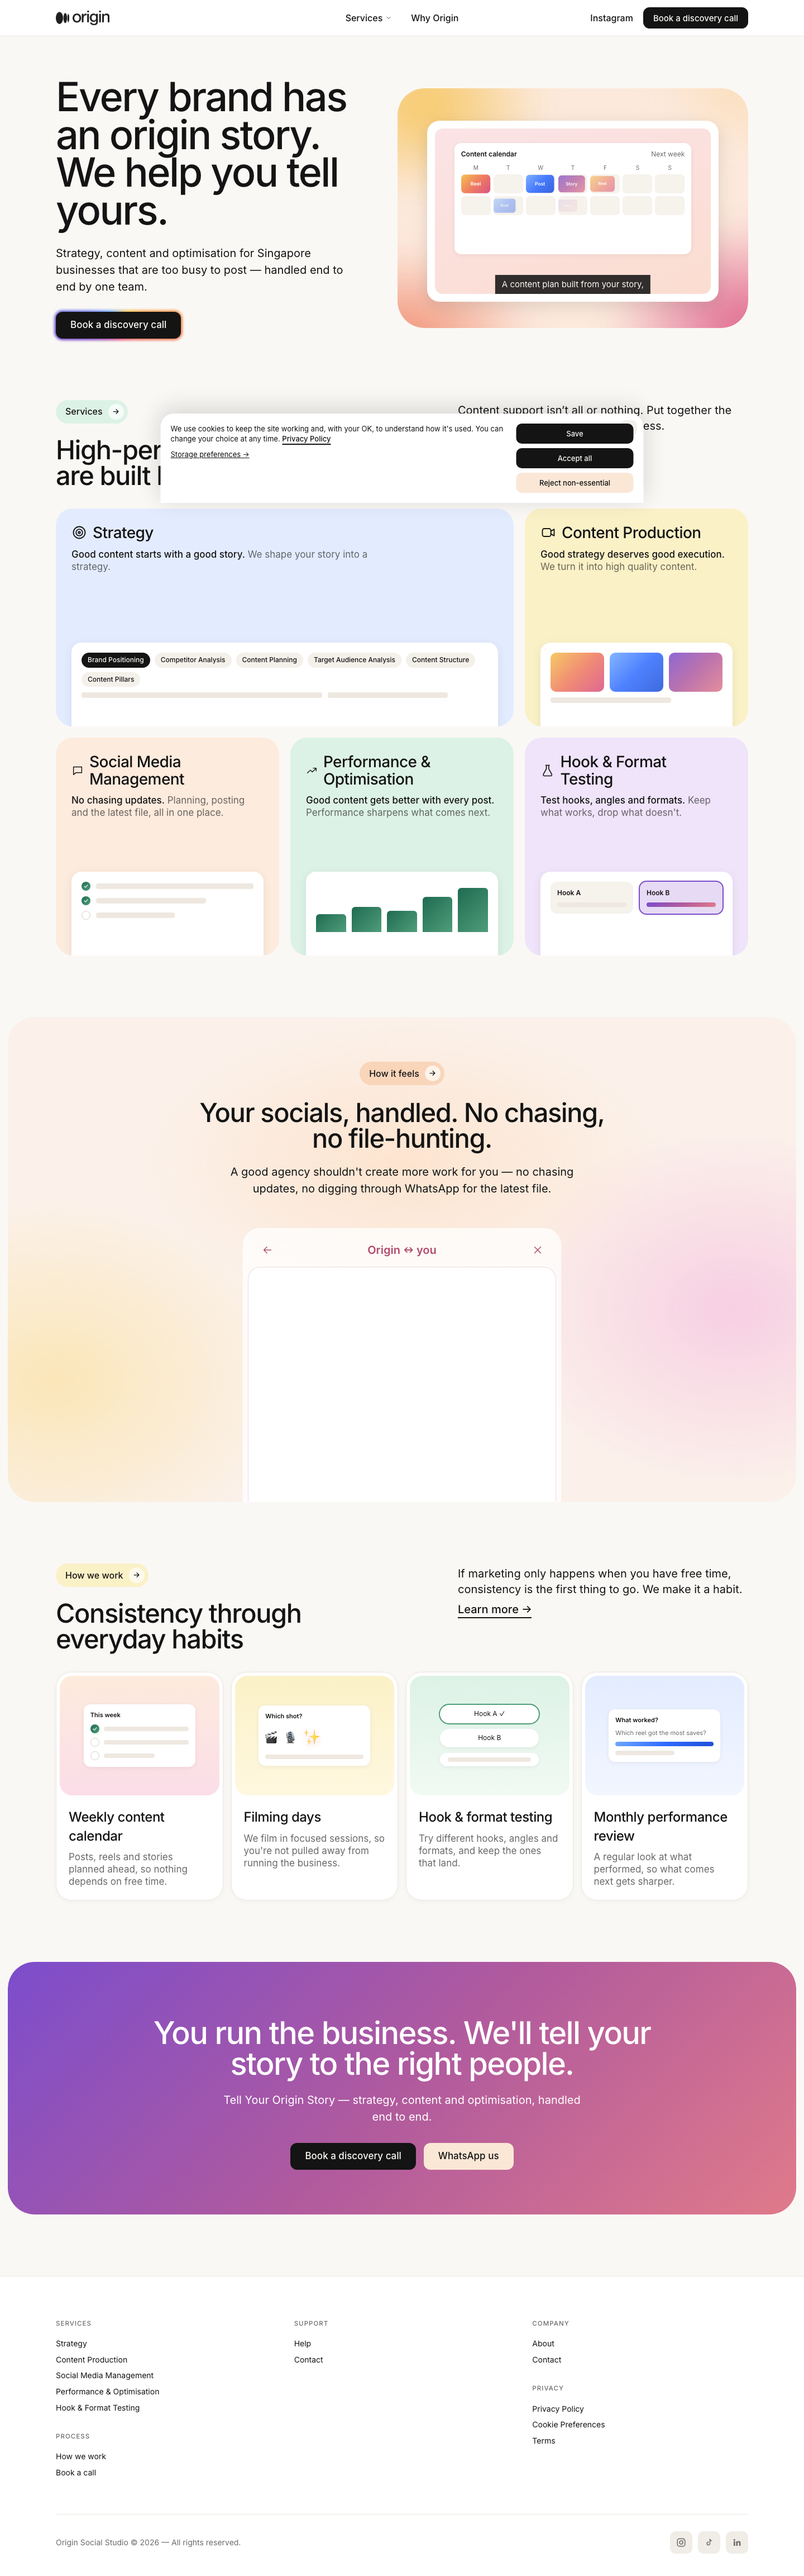
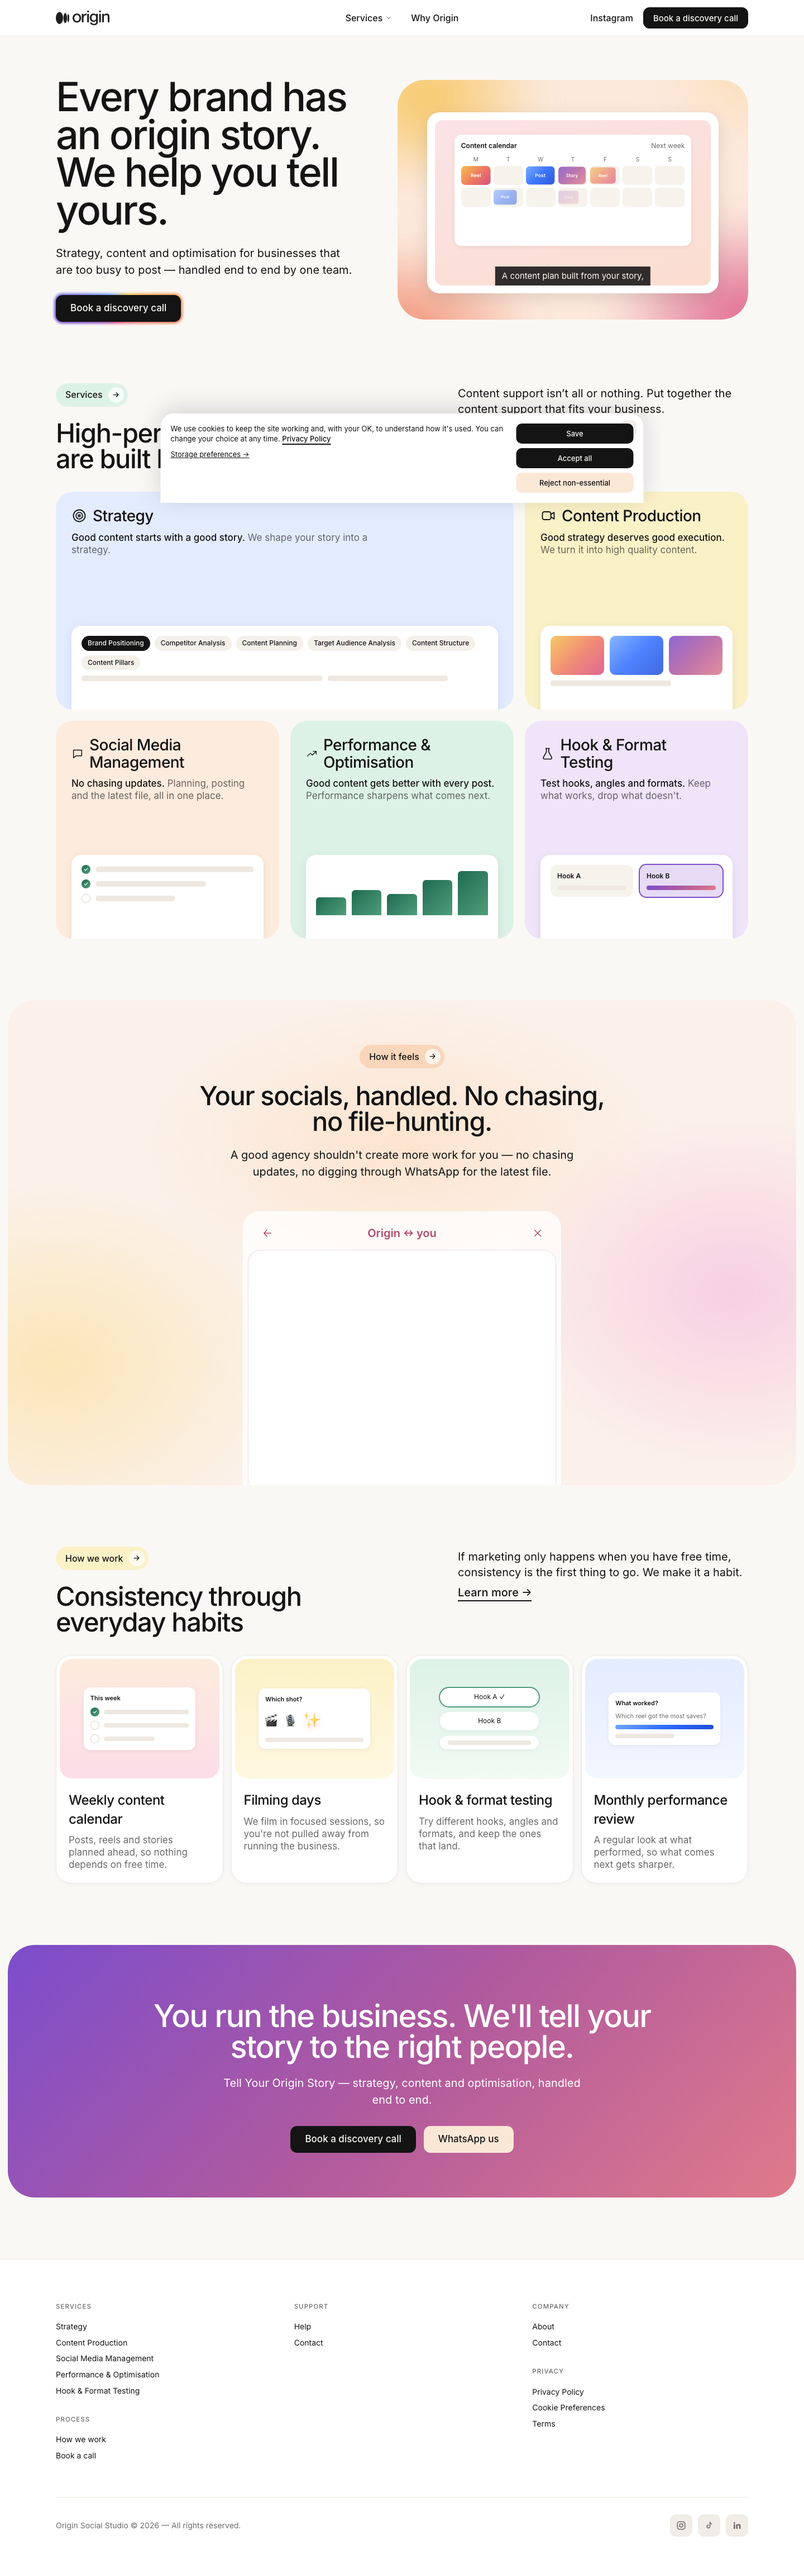
Hero: drop 'Singapore' from lead line (client feedback)

diff --git a/index.html b/index.html
@@ -72,7 +72,7 @@
 <section class="hero"><div class="wrap">
  <div class="hero-g">
   <div><h1 id="h1">Every brand has an origin story. We help you tell yours.</h1>
-   <p class="lead">Strategy, content and optimisation for Singapore businesses that are too busy to post — handled end to end by one team.</p>
+   <p class="lead">Strategy, content and optimisation for businesses that are too busy to post — handled end to end by one team.</p>
    <div class="ctas"><a class="btn is-rainbow" href="contact.html">Book a discovery call</a></div></div>
   <div class="hero-vis" id="hv" aria-label="Animated preview of the Origin content workflow" role="img">
    <div class="blob" id="blob"></div>
